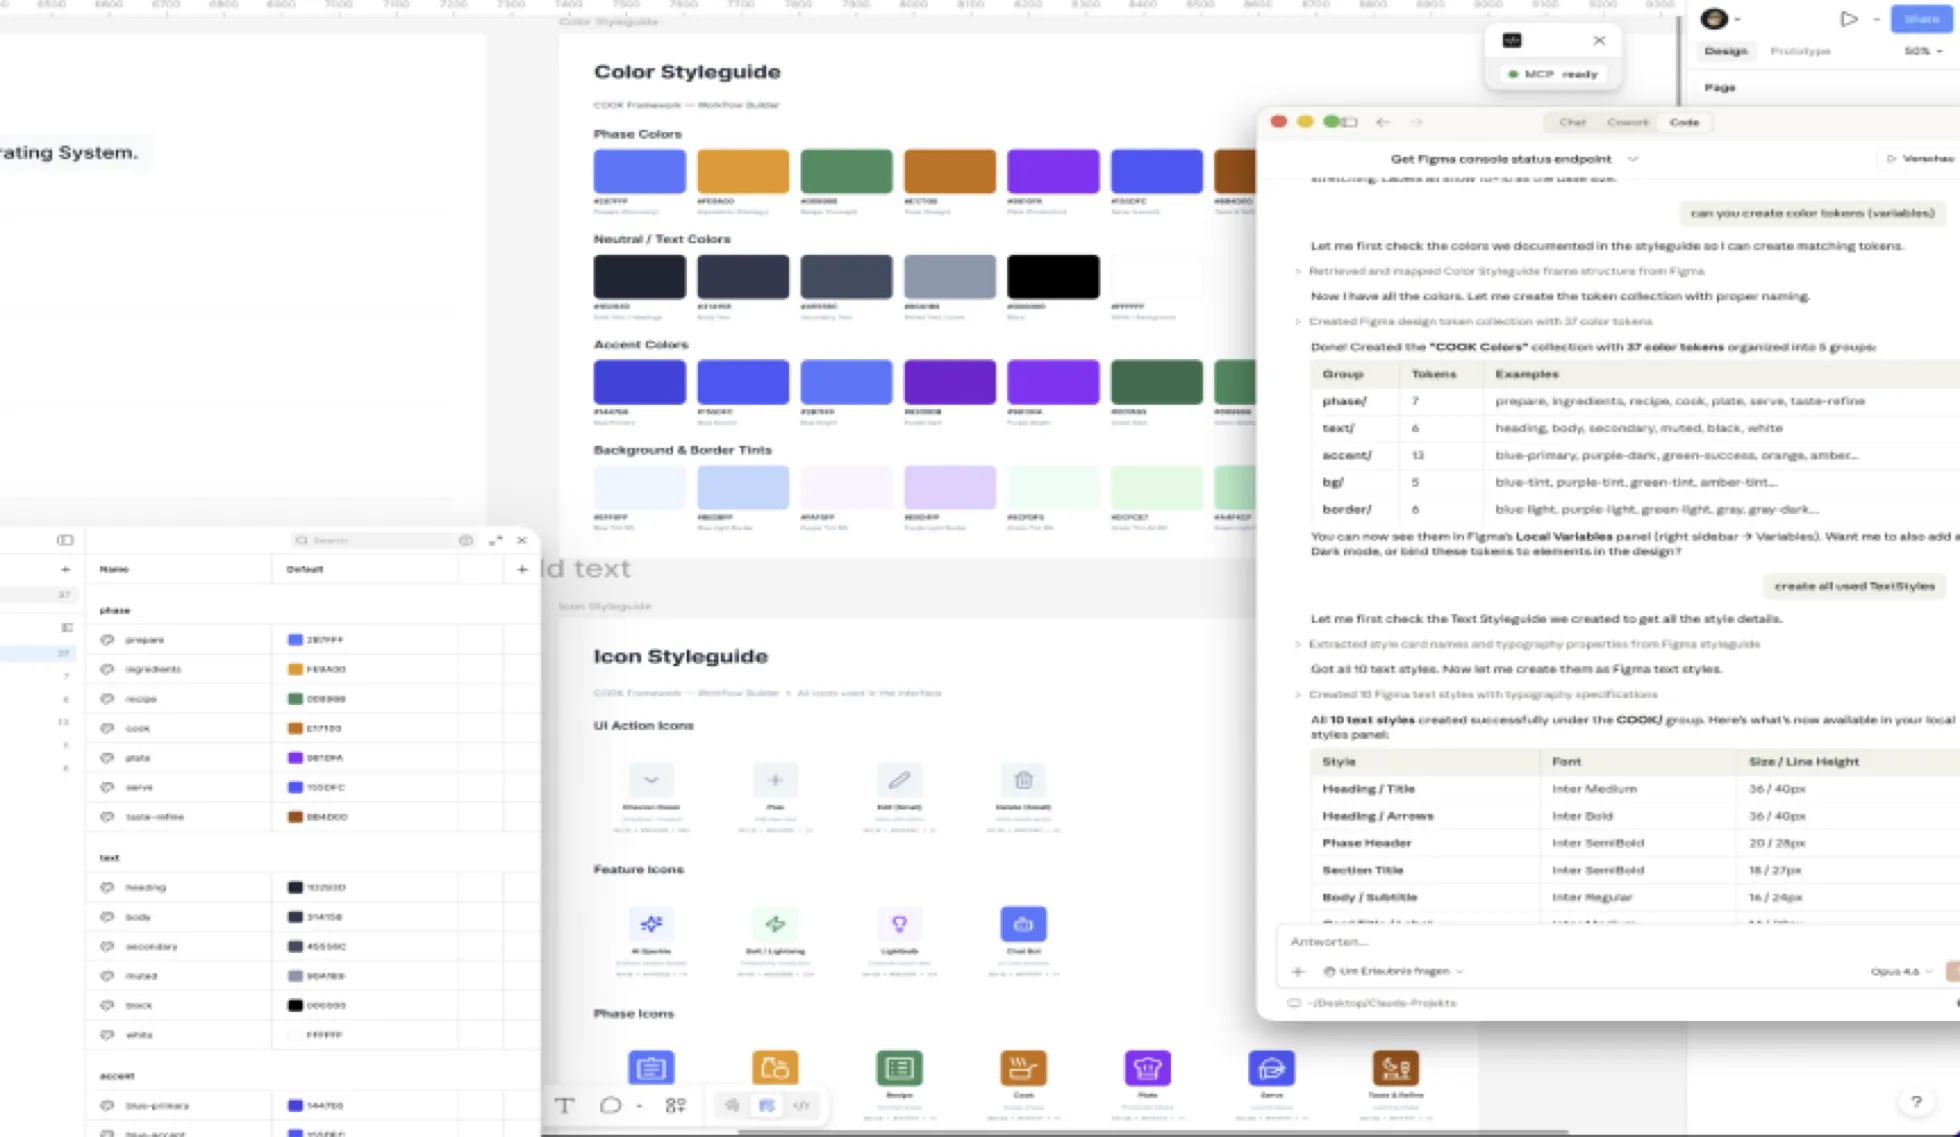
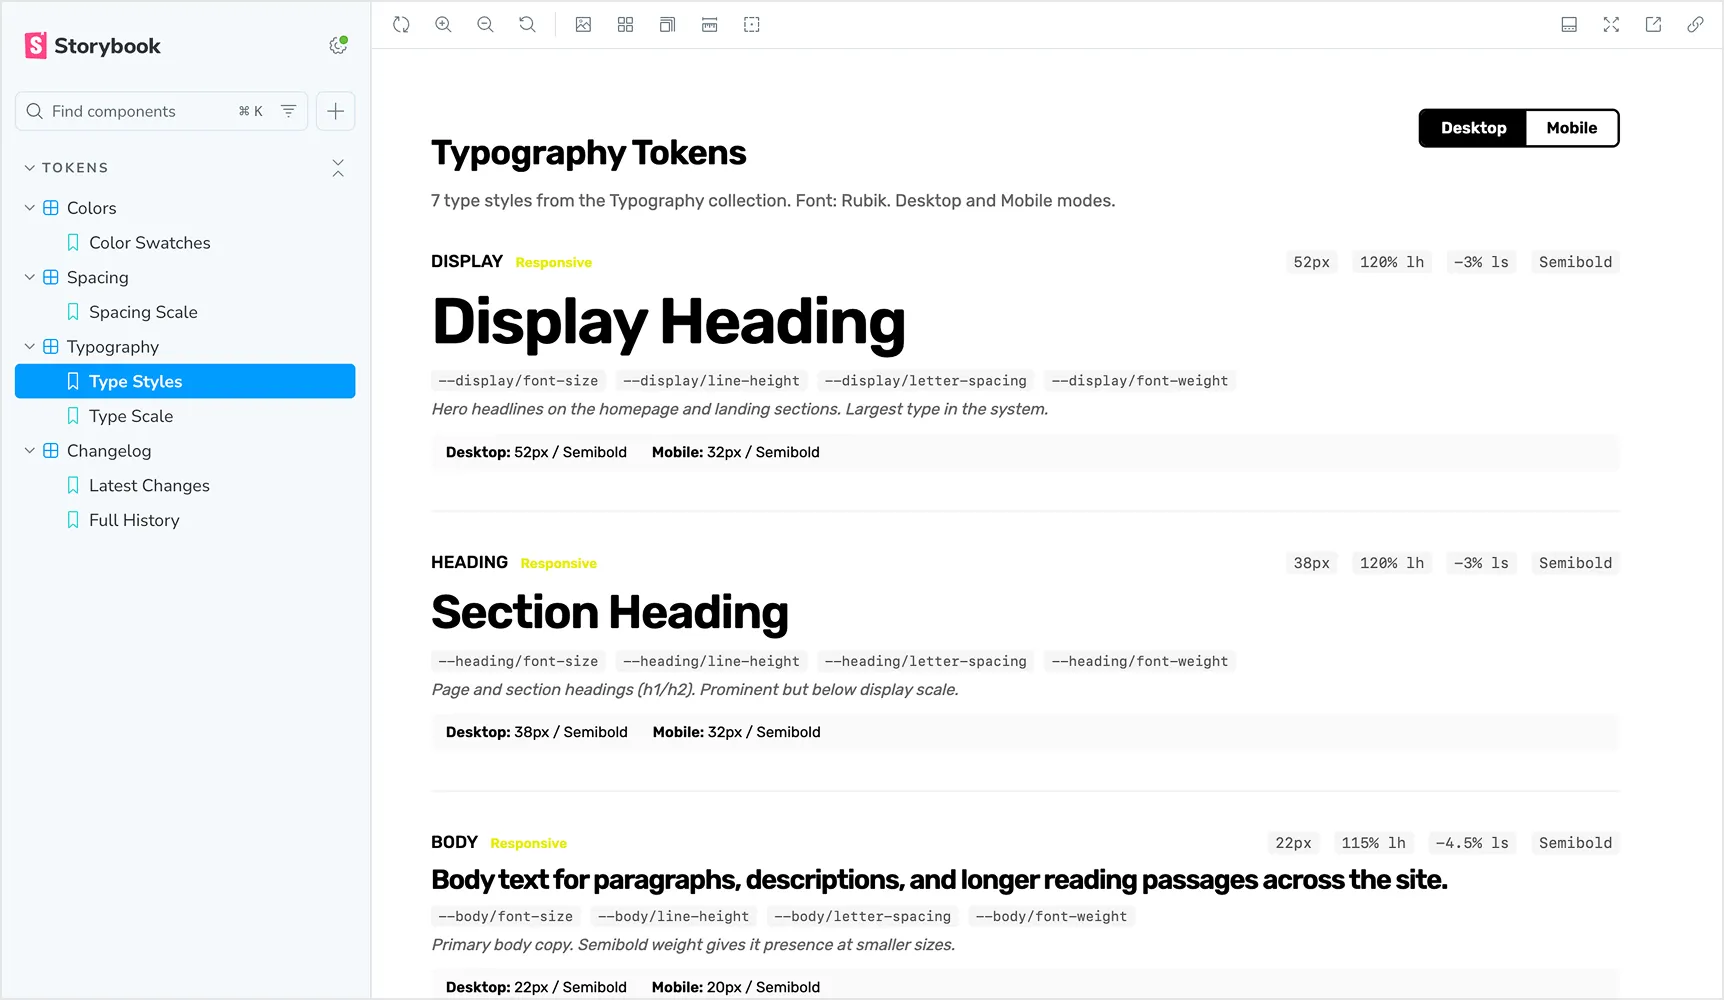
Update Agentic Design Systems page sections 03 and 04
Rename section 03 to "Figma to Code" with updated copy, replace
section 04 image with correct Storybook typography tokens crop
and update body copy to reflect design-to-code workflow.

diff --git a/agentic.html b/agentic.html
@@ -70,8 +70,8 @@
         <img src="images/agentic-03.webp" srcset="images/agentic-03.webp 2x" alt="Design and Development Workflows" width="980" height="654">
       </div>
       <div class="gallery-text">
-        <h2 class="heading">Design &gt; &lt; Development Workflows</h2>
-        <p class="body-copy">Reducing friction between design systems, development and production-ready interfaces.</p>
+        <h2 class="heading">Figma to Code</h2>
+        <p class="body-copy">Reducing friction between design systems, development and production-ready interfaces. I move from Figma to production code with Claude, and prototype interactive UIs with Claude Code.</p>
       </div>
     </section>
 
@@ -82,7 +82,7 @@
       </div>
       <div class="gallery-text">
         <h2 class="heading">Governance &amp; Scalability</h2>
-        <p class="body-copy">Systems designed for consistency, collaboration and long-term scalability.</p>
+        <p class="body-copy">Design systems built for consistency, collaboration and long-term scalability. I move design systems from Figma to code (Storybook, tokens, components), and write documentation and specs through AI-assisted workflows.</p>
       </div>
     </section>
 
